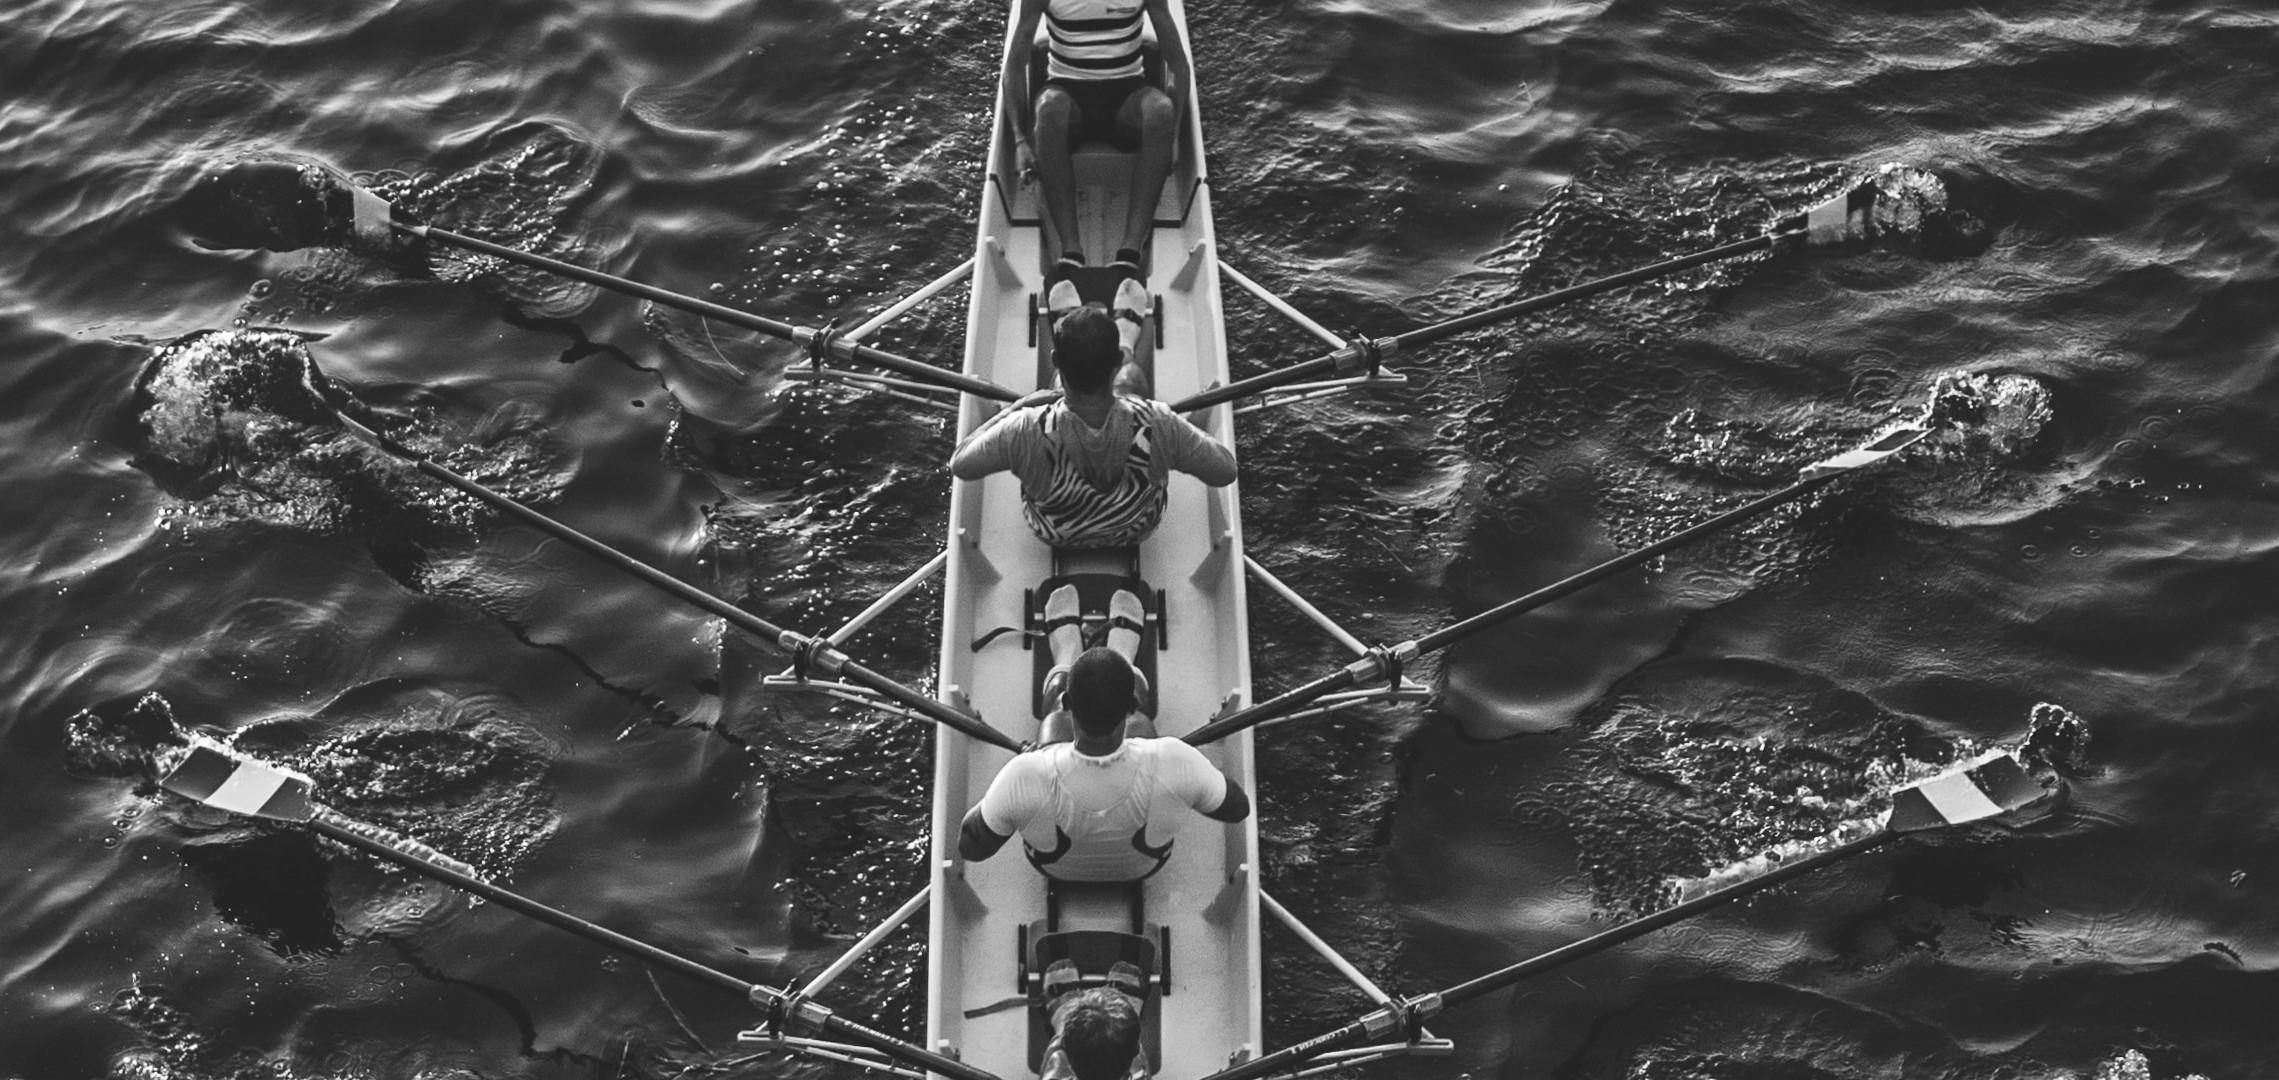
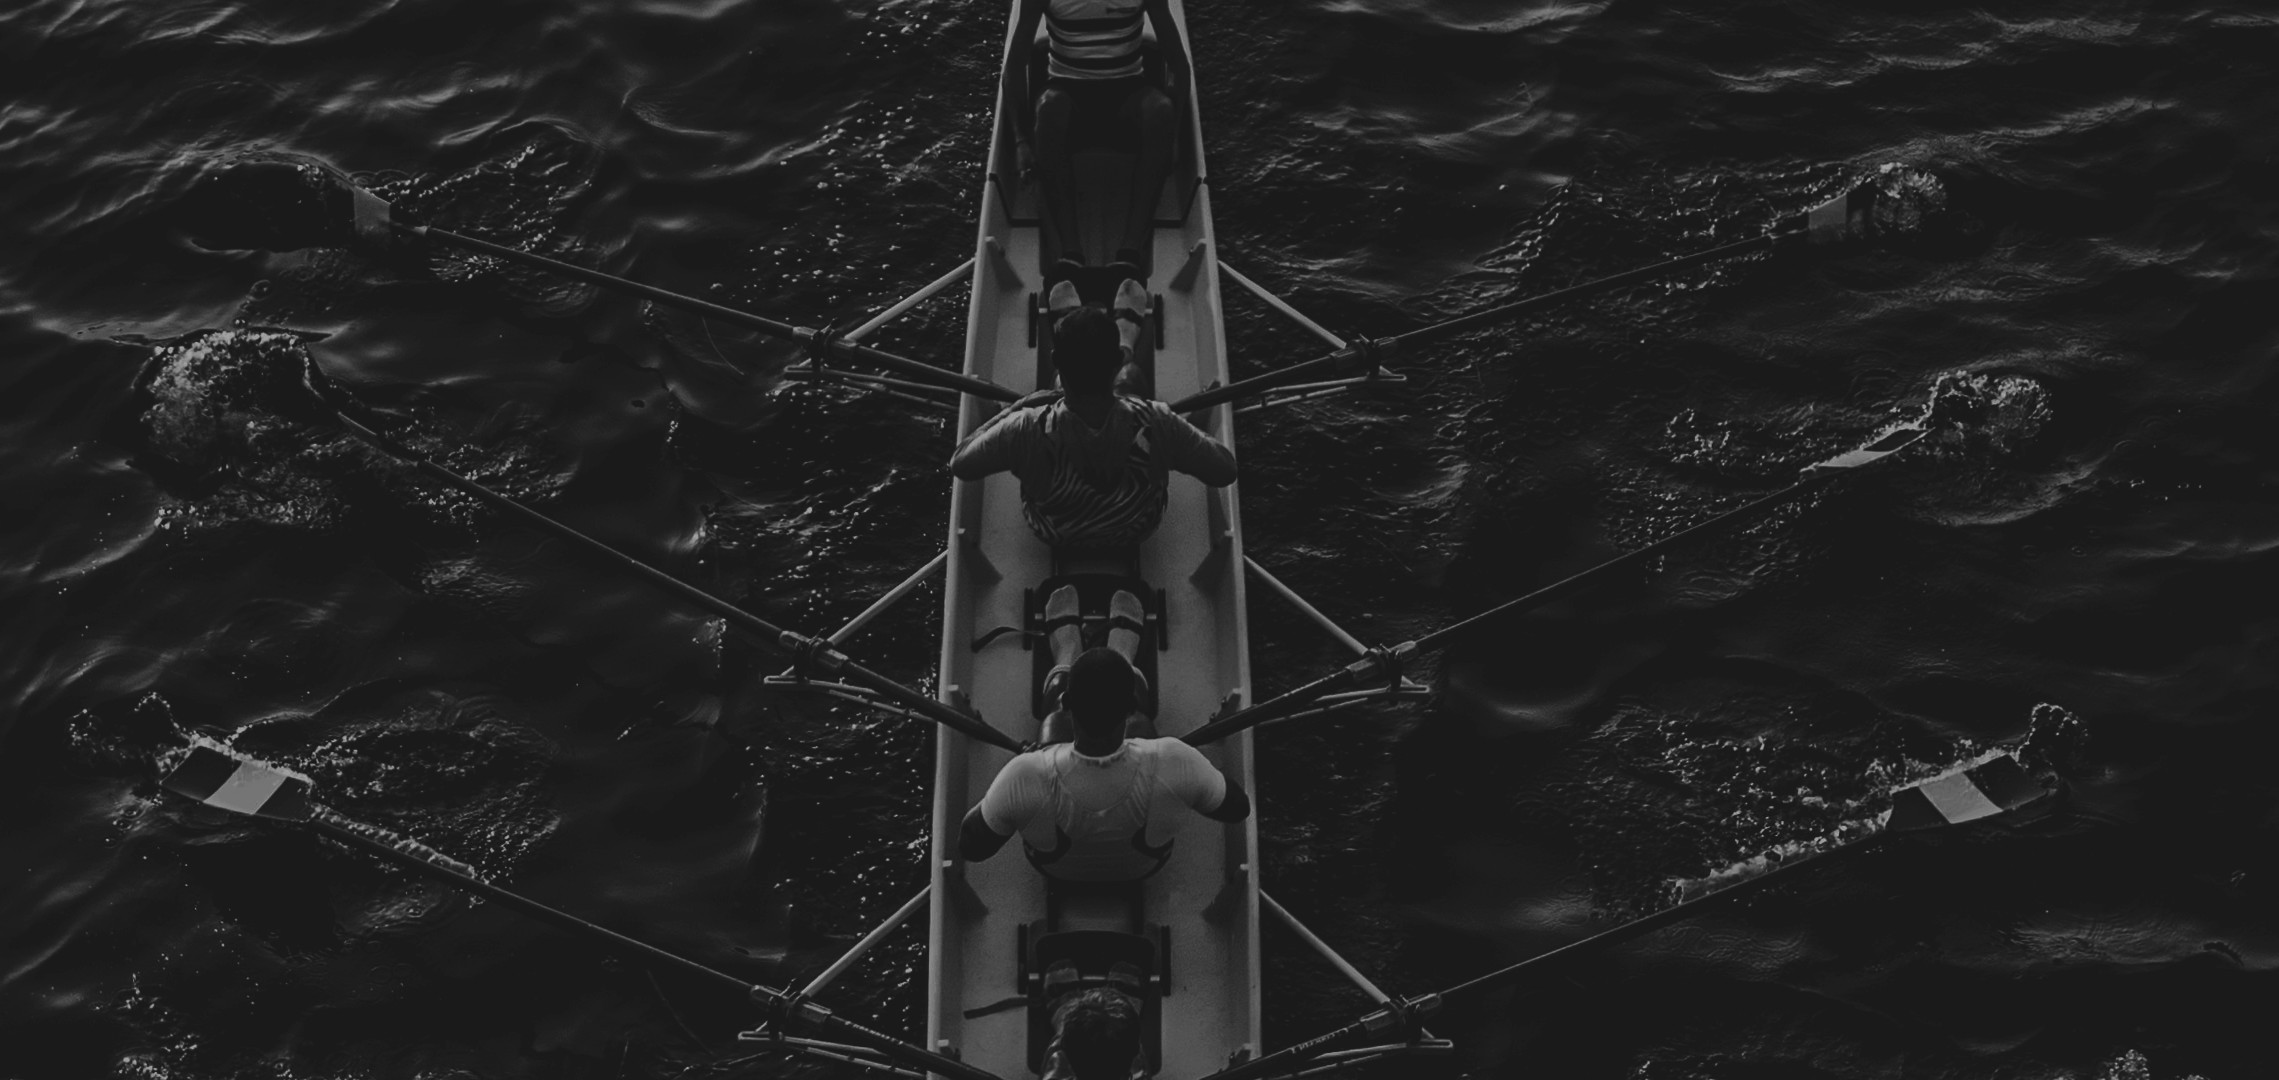
ok

diff --git a/_includes/footer.html b/_includes/footer.html
@@ -2,32 +2,8 @@
   <div class="container">
     <div class="row">
       <div class="col-lg-10 col-lg-offset-1 text-center">
-        <h4><strong>{{ site.owner }}</strong>
+        <h4><a href="https://bootify.fr"><strong>Projet Bootify</strong></a>
         </h4>
-        <p>
-          {% for address in site.address %}
-          {{ address.line }}<br>
-          {% endfor %}
-        </p>
-        <ul class="list-unstyled">
-          <li><i class="fa fa-phone fa-fw"></i> {{ site.telephone }}</li>
-          <li><i class="fa fa-envelope-o fa-fw"></i>  <a href="mailto:{{ site.email }}">{{ site.email }}</a>
-          </li>
-        </ul>
-        <br>
-        <ul class="list-inline">
-          <li>
-            <a href="https://facebook.com/{{ site.facebook_username }}"><i class="fa fa-facebook fa-fw fa-3x"></i></a>
-          </li>
-          <li>
-            <a href="https://twitter.com/{{ site.twitter_username }}"><i class="fa fa-twitter fa-fw fa-3x"></i></a>
-          </li>
-          <li>
-            <a href="https://github.com/{{ site.github_username }}"><i class="fa fa-github fa-fw fa-3x"></i></a>
-          </li>
-        </ul>
-        <hr class="small">
-        <p class="text-muted">Copyright &copy; {{ site.copyright }} 20{{ site.time | date: '%y' }}</p>
       </div>
     </div>
   </div>

diff --git a/_includes/header.html b/_includes/header.html
@@ -1,8 +1,10 @@
 <header id="top" class="header">
   <div class="text-vertical-center">
+    <div style="background-color: rgba(0, 0, 0, 0.8); padding: 25px;">
     <h1><b>Vivateam</b></h1>
-    <h3>Le <b>business game</b> pour le <b>recrutement</b> des talents tech</h3>
+    <h3>Le <b>business game</b> pour le <b>recrutement</b> des talents tech</h3></div>
     <br>
     <a href="https://vivateam.herokuapp.com/" class="btn btn-dark btn-lg">JOUER</a>
+
   </div>
 </header>

diff --git a/_includes/head.html b/_includes/head.html
@@ -6,7 +6,7 @@
   <meta name="description" content="">
   <meta name="author" content="">
 
-  <title>Stylish Portfolio - Start Bootstrap Theme</title>
+  <title>Vivateam - Jouez à créer votre start-up</title>
 
   <!-- Bootstrap Core CSS -->
   <link href="css/bootstrap.min.css" rel="stylesheet">

diff --git a/css/stylish-portfolio.css b/css/stylish-portfolio.css
@@ -240,5 +240,6 @@ hr.small {
 /* Footer */
 
 footer {
-    padding: 100px 0;
+    padding: 5px 0;
+    background-color: black;
 }

diff --git a/_layouts/front.html b/_layouts/front.html
@@ -8,6 +8,7 @@
 
   {% include header.html %}
   {% include scripts.html %}
+  {% include footer.html %}
 
 </body>
 
